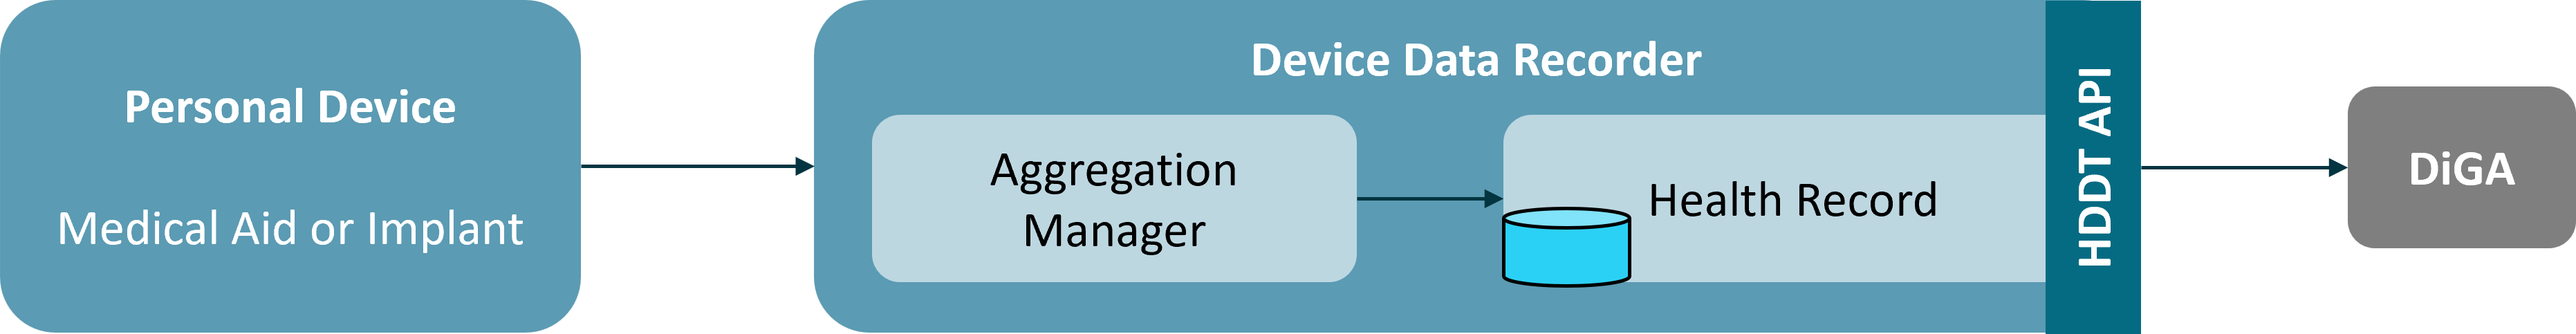
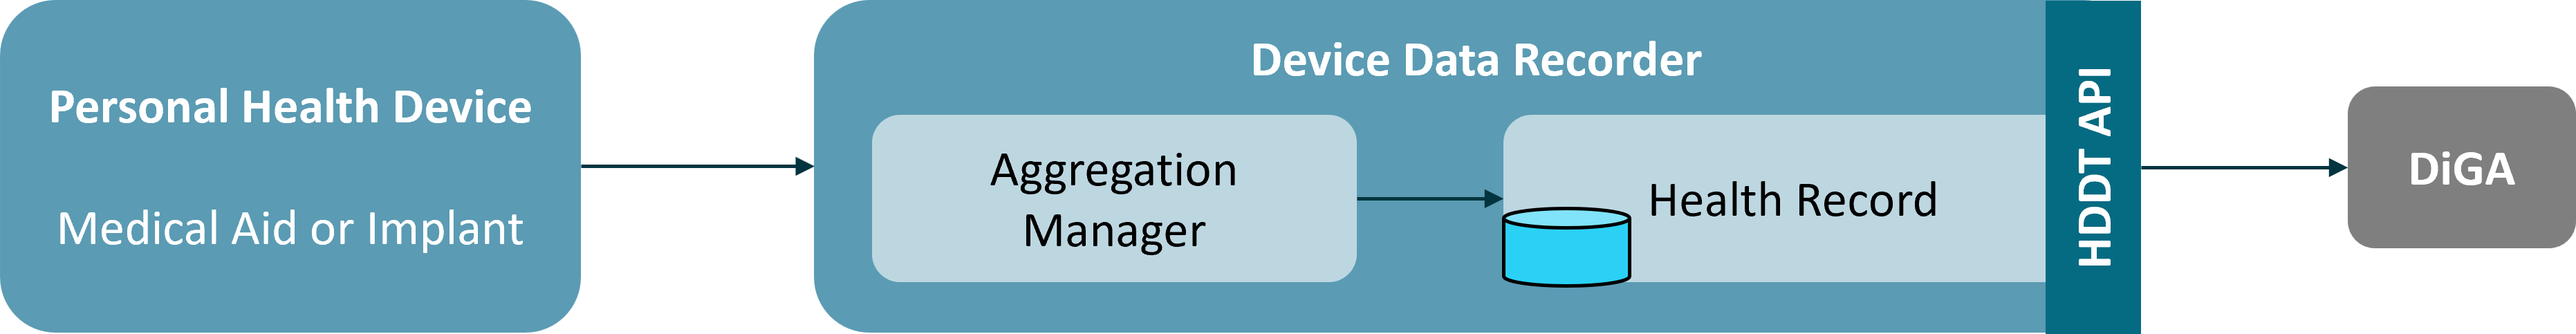
logical viewpoint (#117)

Changed region(s): [[0.0, 0.2484, 0.218, 0.3727]]

diff --git a/input/pagecontent/logical-viewpoints.md b/input/pagecontent/logical-viewpoints.md
@@ -1,49 +1,72 @@
 
 § 374a SGB V requests vendors of medical aids and implants to provide medical device data for authorized digital health applications (DiGA) through a standardized backend API. This API is specified by the Health Device Data Transfer (HDDT), which provides normative definitions for the data transfer itself as well as for accomplishing security services.   
 
-### Building Blocks: Actors and Roles
+### Regulatory Perspective
 
-The core building blocks of the HDDT ecosystem are already defined by law. § 374a SGB V names __Personal Health Devices__ (medical aids and implants) as Personal Health Device data providers and __DiGA__ as eligible Personal Health Device data consumers. Definitions of these actors are managed by BfArM in dedicated registries for DiGA and devices (_BfARM DiGA Verzeichnis_ and _BfARM Hilfsmittel-Schnittstellen-Verzeichnis (HiMi-SST-VZ)_) . DiGA vendors and manufacturers of Personal Health Devices are responsible for actively ensuring that their respective entries in these directories are complete and current. HDDT makes intense use of coded values to allow for an interoperable sharing and automated processing of all transmitted data. All definitions of these codes used are managed in the German __Central Terminology Server__ (_Zentraler Terminologieserver_). 
+§ 374a (1) SGB V names medical aids and implants as data providers and DiGA as eligible data consumers. § 374a (2) SGB V obligates BfArM to set up and operate dedicated registries for publishing the HDDT-relevant interfaces of medical aids, implants and DiGA and devices (_BfARM Hilfsmittel-Schnittstellen-Verzeichnis (HiMi-SST-VZ)_ and _BfARM DiGA Verzeichnis_). Acc. to § 374a (2), manufacturers of medical aids and implants are responsible for actively ensuring that their respective entries in these directories are complete and current. 
+
+The legislative rational for § 374a SGB V explicitly defines the HDDT API for disclosing data from medical aids and implants to eligible DiGA as an backend API. It is asumed that the manufacturer of the medical aid or implant (or an associated vendor) operates backend services on a server or in a cloud where data measured by the device sensor is stored. Intermediate aggregators and gateways (e.g. a mobile app) receive data from the sensor and forward it to the backend services. The DiGA from its backend explicitly requests data from the medical aid's or implant's backend services through the HDDT API. 
 
 <div><img src="/HDDT core actors.png" alt="core building blocks of the HDDT ecosystem" width="60%"></div>
 <br clear="all"/>
 
-The HDDT API is defined as an backend API. It is asumed that the Personal Health Device manufacturer (or an associated vendor) operates a Health Record on a server or in a cloud where data measured by the device sensor is stored. The DiGA from its backend explicitly requests data from the Personal Health Device's Health Record through FHIR RESTful queries and FHIR operations. 
+### Logical Building Blocks
 
-Further information on the HDDT buildung blocks is given in the section [Participants](participants.html). The technical specifications of the interfaces which have to be provided by the defined building blocks can be found in the chapter __REST API__.
+The HDDT ecosystem can be divided into several logical building blocks. For the components operated by the manufacturers of the medical aids' and implants' devices, frontends and backend systems, the HDDT specification follows the logical decomposition defined by the [Continua Health Alliance](https://www.slideserve.com/kanoa/continua-health-alliance):
+* The __Personal Health Device__ is the sensor hardware of the medical aid or implant and realizes the sensory recording of data on, at or inside the patient. 
+* The data is transmitted via a local point-to-point connection to an __Aggregation Manager__, which validates the data, prepares it and, if necessary, merges it with other data. For most devices, the Aggregation Manager will be a mobile application on a smartphone or tablet, but it is not uncommon to have dedicated mobile controllers (e.g. in some insulin pumps), desktop systems or web portals (e.g. for wired data import) or set-top boxes (e.g. for implants). 
+* The data is transmitted to a background system via an internet connection and persisted there in a __Health Record__. 
+
+DiGA can access device data only through the Health Record. For HDDT the Health Record acts as a __FHIR Resource Server__ that implements standard FHIR RESTful interactions that provide access to device data as FHIR resources. In this specification the term __Health Record__ is used synonymously with __FHIR Resource Server__, with the first preferrably used when the perspective of the medical aid or implant as the data controlling entity is taken and the second being preferred when the perspective of the medical aid or implant as a data provider to DiGA is taken.
+
+Access to the FHIR Resource Server is restricted to authorized DiGA which are listed with the ___BfArM DiGA Verzeichnis___ (BfARM DiGA Registry). DiGA can proof authorization to the FHIR Resource Server through an OAuth Access Token. This token is issued by an __OAuth2 Authorization Server__ which is operated by the data controller, which is the owner of the Health Record. The Authorization Server not only consideres a DiGA's permissions as recorded in the BfArM DiGA Registry but as well takes care that the patient has given a valid consent for sharing his health data with authorized DiGA.
+
+In this specification the combination of Aggregation Manager, Health Record (Resource Server), and OAuth2 Authorization Server is called the __Device Data Recorder__. Medical Device and Device Data Recorder may be provided by the same manufacturer or by different manufacturers. In either case the manufacturer of the Device Data Recorder is responsible for implementing the HDDT API which consists of the FHIR based API of the Resource Server and the OAuth2 compliant API of the Authorization Server. Upon successful implementation of the API, the Devce Data Recorder gets listed with the _BfARM HiMi-SST-VZ_ (BfArM Device Registry).
+
+In order to securely operate the HDDT API, Manufacturers of [certification relevant](certification-relevant-systems.html) Device Data Recorders MUST
+* gather information about connecting DiGA from the _BfArM DiGA Verzeichnis_,
+* update their own entries with the _BfARM HiMI-SST-VZ_ (BfArM Device Registry), and
+* retrieve semantic artifacts from the __German Central Terminology Server__ (ZTS).
+
+Interfaces to these three services are not part of the HDDT specification. A non-normative description of these services is given in the section [BfARM Registries and ZTS](registries-and-zts.html).
+
+The figure below shows how these logical building blocks interact with each other.
+
+<div><img src="/HDDT building blocks.png" alt="building blocks of the HDDT ecosystem" width="65%"></div>
+<br clear="all"/>
 
 ### Data to be transferred through the HDDT API
 
 Subject of the data transmission as requested by § 374a SGB V are measured data, aggregated/derived data and configuration data:
-- All data that is measured through sensors of the Personal Health Device is considered as measured data and as such subject to the HDDT specifications. Data that is obtained by the Personal Health Device from other sources (e.g. entered by the patient) is not considered to be measured data.
-- All data that is aggregated or derived from measured data by the Personal Health Device is subject to the HDDT specification, too.
-- Any static and dynamic attributes that make up the configuration of the device are subject to the HDDT specification, too. For the first introduction of HDDT in 2027 only attributes will only be considered that 
+- All data that is measured through sensors of the Personal Health Device is considered as measured data and as such subject to the HDDT specifications. Data that is obtained by the Personal Health Device or the AGgregationManager from other sources (e.g. entered by the patient) is not considered to be measured data.
+- All data that is aggregated or derived from measured data is subject to the HDDT specification, if it is stored with the Health Record. This includes data that is derived by the Personal Health Device or the Aggregation Manager as well as key figures that are calculated by the Health Record itself. If a derived value is only processed locally with the Personal Health Device or the Aggregation Manager and not stored with the Health Record, it is not subject to the HDDT specification.
+- Any static and dynamic attributes that make up the configuration of the device are subject to the HDDT specification, too. For the initial HDDT specification (Version 1) only attributes will only be considered that 
   - affect the general ability of a DiGA to process the received device data for the DiGA's eligible purposes (e.g. calibration status of the Personal Health Device) or 
-  - that affect the interaction between the DiGA and the backend services of the Personal Health Device (e.g. discovering missing data so that a request may be stated again in the future).
+  - that affect the interaction between the DiGA and the Device Data Recorder (e.g. discovering missing data so that a request may be stated again in the future).
 
-The figure below shows the relationship between Personal Health Devices, measured data and derived data for the domain "Diabetes Self-Management". Relationships between devices and measured data is n:m which means that any device could provide many kinds of measured data while each measured data may be provided by multiple kinds of personal Personal Health Devices.
+The figure below shows the relationship between Personal Health Devices, measured data and derived data for the domain "Diabetes Self-Management". Relationships between Personal Health Devices and measured data is n:m which means that a Personal Health Device could provide many kinds of measured data while each measured data may be provided by multiple kinds of Personal Health Devices.
 
 <div><img src="/diabetes devices and values.png" alt="devices and values in the domain diabetes self-management" width="70%"></div>
 <br clear="all"/>
 
-Further information on devices and data is given in the sections [Information Model](information-model.html) and [Retrieving Data](retrieving-data.html). The technical specifications of the FHIR resources that represent data and devices are domain specific. FHIR implementation guides for various kinds of device and data related to glucose measurements can be found in the chapter __MIV-Specific APIs__.
+Further information on devices and data is given in the sections [Information Model](information-model.html) and [Retrieving Data](retrieving-data.html). The technical specifications of the FHIR resources that measured data are domain specific. FHIR implementation guides for various kinds of data related to glucose measurements can be found in the chapter __MIV-Specific APIs__.
 
 ### Minimum Interoperable Values
 
-As stated, the relationship between Personal Health Devices and measured data is many-to-many. The same holds for DiGA and required data; e.g. a diabetes DiGA may use blood glucose values from glucometers as well as data about insulin injections from SmartPens for it's legitimite purposes. For matching data which is requested by DiGA with data which is provided by Personal Health Devices, the HDDT specification introduces the notion of __Mandatory Interoperable Values (MIVs)__. A MIV is a conceptual definition of a certain kind of device data that is processed by DiGA. A "conceptual definition" defines data by its properties and purposes within the context of a DiGA device data processing scenario. An example for a MIV is _Blood Glucose Measurement_. This MIV is measured from blood according to care plan (e.g. taking measurements before main meals) or on demand. Values are usable for clinical decisions. _Continuous Glucose Measurement_ is another example for a MIV. This one is measured continuously in interstitial fluid (and in the future probably even through optical means) and suitable for calculating key indicators for the status of the treatment (e.g. %TIR and GMI). By this even though these two MIVs express glucose values, they both will presumably be used in different use cases by different DiGA. 
+As stated, the relationship between Personal Health Devices and measured data is many-to-many. The same holds for DiGA and required data; e.g. a diabetes DiGA may use blood glucose values from glucometers as well as data about insulin injections from SmartPens for it's legitimite purposes. For matching data which is requested by DiGA with data which is provided by Personal Health Devices, the HDDT specification introduces the notion of __Mandatory Interoperable Values (MIVs)__. A MIV is a conceptual definition of a certain kind of device data that is processed by DiGA. A "conceptual definition" defines data by its properties and purposes within the context of a DiGA device data processing scenario. An example for a MIV is _Blood Glucose Measurement_. This MIV is measured from blood according to a care plan (e.g. taking measurements before main meals) or on demand (e.g. a patient detecting symptoms of hypoglycemia). Values are usable for clinical decisions. _Continuous Glucose Measurement_ is another example for a MIV. This one is measured continuously in interstitial fluid (and in the future probably even through optical means) and suitable for calculating key indicators for the status of the treatment (e.g. times in ranges and glucose management indicator). Even though both of these two MIVs express glucose values, they both will presumably be used in different use cases by different DiGA. 
 
-The DiGA Registry and _HiMi-SST-VZ_ (Device Registry) at BfArM record for each DiGA and Personal Health Device the MIVs which are processed. This allows for discovering which devices match the demands of a certain DiGA and which DiGA can process the data provided by a certain device.
+The _DiGA Verzeichnis_ and _HiMi-SST-VZ_ at BfArM record for each DiGA, each Personal Health Device and each Device Data Recorder the MIVs which are processed. This allows for discovering which devices match the demands of a certain DiGA and which DiGA can process the data provided by a certain device.
 
 ### Security Services
-It is asumed that the DiGA and the Personal Health Device do not have a common shared patient identifier. Even though the German _GesundheitsID_ (health ID) is a global patient ID which could be used for identifying the patient, recently neither DiGA nor Personal Health Devices are allowed to obtain this identifier from the patient's health insurance. Therefore if a patient allows a DiGA to request device data from a Personal Health Device, DiGA and Personal Health Device must first link their respective patient accounts. This is done by the DiGA calling an API at an Authorization Server that has to be implemented as part of the Personal Health Device's backend services. At this point the patient is already logged in with the DiGA while the Authorization Server forces the patient to as well log in with the patient frontend that controls the Personal Health Device. The patient is now simultanously activated with both actors, which allows DiGA and Personal Health Device to share a common identifier that unambigously identifies the combination of patient, DiGA and Personal Health Device ("pairing-ID"). 
+It is asumed that the DiGA and Device Data Recorder do not have a common shared patient identifier. Even though the German _GesundheitsID_ (health ID) is a global patient ID which could be used for identifying the patient, recently neither DiGA nor Personal Health Devices or Device Data Recorders are allowed to obtain this identifier from the patient's health insurance. Therefore if a patient allows a DiGA to request device data from a Personal Health Device through a Device Data Recorder, DiGA and Device Data Recorder must first link their respective patient accounts. This is done by the DiGA calling an API at the Device Data Recorder's OAuth2 Authorization Server. At this point the patient is already logged in with the DiGA while the OAuth2 Authorization Server forces the patient to as well log in with the Device Data Recorder's Aggregation Manager that controls the Personal Health Device. The patient is now simultanously activated with both actors, which allows DiGA and Device Data Recorder to share a common identifier that unambigously identifies the combination of patient, DiGA and Device Data Recorder ("pairing-ID"). 
 
-The pairing flow is based on the OAuth2 standard. The requested measured data which is requested by the DiGA is encoded as an OAuth Scope. Upon pairing the Personal Health Device validates the requested scope with the DiGA registry at BfArM. This registry lists for all DiGA the MIVS - represented by MIVs value set of LOINC codes - that the DiGA is allowed to process. The committed OAuth2 Scope is then encapsuled with an access token that is handed back to the DiGA by the authorization server. Whith every request for data the DiGA provides the Personal Health Device with this access token as a proof of authorization. Access token can be renewed using the standard means of OAuth2.
+The pairing flow is based on the OAuth2 standard. The MIV defing the measured data which is requested by the DiGA is encoded as an OAuth Scope. Upon pairing the Device Data Recorder validates the requested scope with the _DiGA Verzeichnis_ at BfArM. This registry lists for all DiGA the MIVS - represented by a value set of LOINC codes - that the DiGA is allowed to process. The committed OAuth2 Scope is then encapsuled with an access token that is handed back to the DiGA by the OAuth2 Authorization Server. Whith every request for data the DiGA provides the Device Data Recorder with this access token as a proof of authorization. Access token can be renewed using the standard means of OAuth2.
 
-The sequence diagramm below sketches the pairing flow between DiGA and Personal Health Device followed by a request for device data using a FHIR RESTful interaction.
+The sequence diagramm below sketches the pairing flow between DiGA and Device Data Recorder followed by a request for device data using a FHIR RESTful interaction.
 
 <div style="width: 80%;">
   <img src="assets/images/pairing_sequence_high_level.svg" style="width: 100%;" />
 </div>
 
-Further information on the authorization server and the authorization flow is given in the section [Pairing](pairing.html). The technical sepcification of the HDDT profile on the OAuth2 standard can be found in the section [OAuth API](oauth-api.html).
+Further information on the OAuth2 Authorization Server and the authorization flow is given in the section [Pairing](pairing.html). The technical sepcification of the HDDT profile on the OAuth2 standard can be found in the section [OAuth API](oauth-api.html).
 
